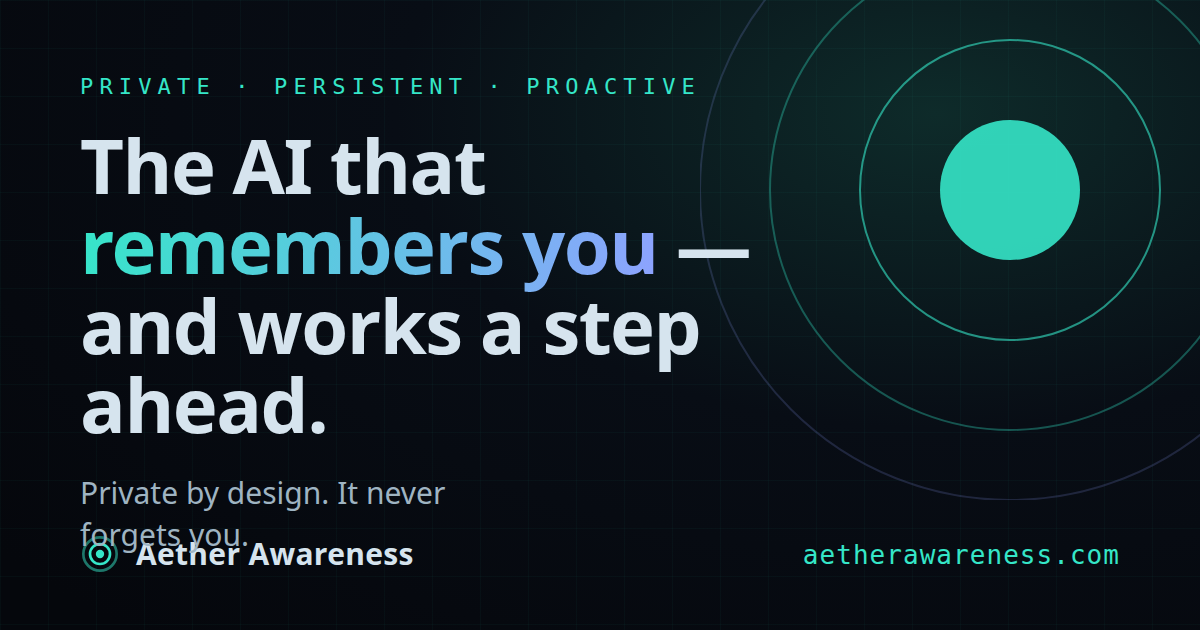
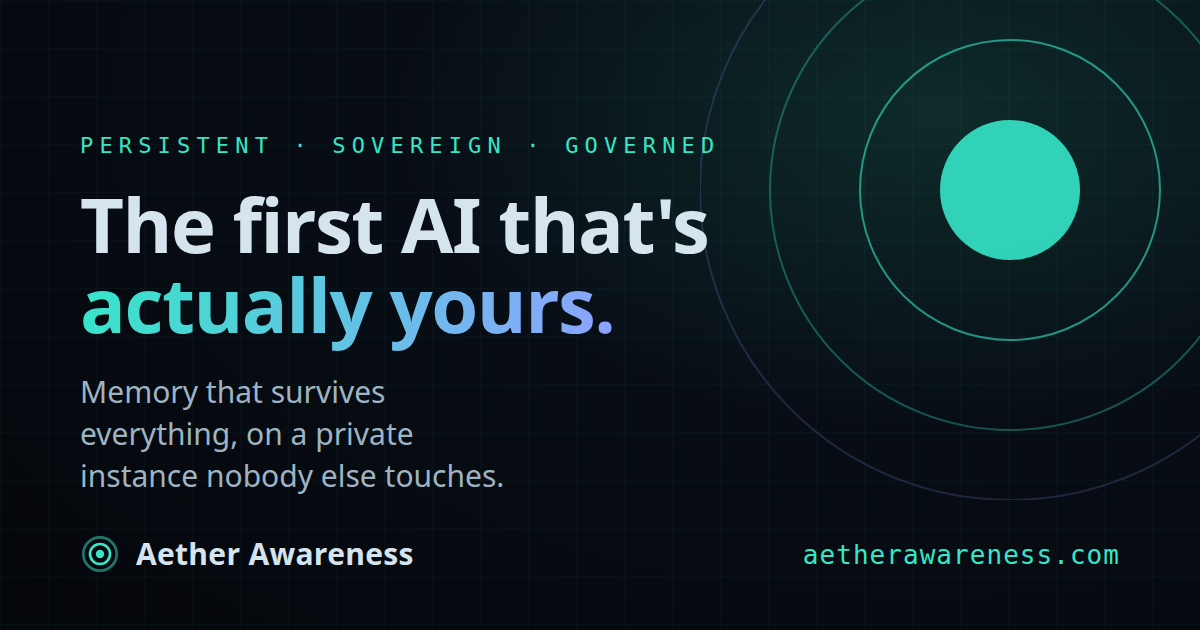
OG card + README refresh to sovereign-instance positioning

diff --git a/assets/og-card.html b/assets/og-card.html
@@ -25,9 +25,9 @@
     <circle cx="310" cy="310" r="310" stroke="#8ea2ff" stroke-width="2" opacity=".18"/>
   </svg>
   <div class="wrap">
-    <div class="eyebrow">Private · Persistent · Proactive</div>
-    <h1>The AI that <span class="grad">remembers you</span> — and works a step ahead.</h1>
-    <p>Private by design. It never forgets you.</p>
+    <div class="eyebrow">Persistent · Sovereign · Governed</div>
+    <h1>The first AI that's <span class="grad">actually yours.</span></h1>
+    <p>Memory that survives everything, on a private instance nobody else touches.</p>
   </div>
   <div class="brand">
     <svg width="40" height="40" viewBox="0 0 24 24" fill="none" stroke="#35e6c8" stroke-width="1.6"><circle cx="12" cy="12" r="2.5" fill="#35e6c8" stroke="none"/><circle cx="12" cy="12" r="6"/><circle cx="12" cy="12" r="10" opacity=".5"/></svg>

diff --git a/README.md b/README.md
@@ -1,59 +1,61 @@
 # Aether Awareness — launch site
 
-Marketing + signup site for **Aether Awareness**: a private, persistent, proactive AI
-with three tiers (Free / Standard / Premium). Static, zero-build, deploys anywhere.
+Marketing + signup site for **[Aether Awareness](https://aetherawareness.com)**: private,
+single-tenant AI instances — three companions with persistent memory, owned identity, and
+governed autonomy, in three editions (Companion / Team / Governance). Static, zero-build,
+self-contained (no external requests, no trackers), served by GitHub Pages.
 
 ```
 aetherawareness-com/
-├── index.html          # the page (SEO + Open Graph for the X launch card)
-├── site.config.js      # ← EDIT THIS: prices, Stripe links, signup endpoint
-├── css/style.css       # committed dark "signal intelligence" theme
+├── index.html          # the page: manifesto, capabilities, editions, FAQ
+├── terms.html          # Terms of Service
+├── privacy.html        # Privacy Policy
+├── site.config.js      # ← EDIT THIS: prices, checkout links, signup endpoint
+├── css/style.css       # dark "signal intelligence" theme
 ├── js/main.js          # hero field, pricing render, signup handling
 ├── assets/             # favicon.svg, og-card (social preview)
+├── CNAME               # custom domain for GitHub Pages
 └── marketing/
     └── video-scripts.md  # 3 launch video scripts (90–120s)
 ```
 
-## Before launch — the two things to set
+## Editing
 
-Everything you'd change lives in **`site.config.js`**:
+Everything you'd routinely change lives in **`site.config.js`**:
 
-1. **Prices** — `tiers[].price` are placeholders (`$19`, `$49`). Set your real numbers.
-2. **Checkout links** — `tiers[].checkout` currently point at the existing Stripe
-   pay-what-you-want link. Swap for your fixed recurring Stripe Checkout / Payment Link
-   per tier. (These map to the subscriber gateway tiers `free` / `standard` / `premium`.)
-3. **Signup destination** — `signupEndpoint`:
-   - Leave `""` for **launch-capture mode**: emails are stored in `localStorage` and a
-     prefilled mail to `contactEmail` opens, so no signup is ever lost pre-backend.
-   - Or set it to a POST endpoint (Formspree, a Supabase Edge Function, or the subscriber
-     gateway's provisioning webhook) that accepts `{ "email": "..." }`.
+1. **Prices** — mirror the product catalog: Companion **$39.95/mo · $399/yr**, Team
+   **$59.95/mo · $599/yr**, Governance **$499.95/mo · $4,999/yr**.
+2. **Checkout** — while the billing host is pre-launch every tier uses `action:"signup"`
+   (email capture; no lead is lost). When checkout goes live, set `action:"checkout"` and
+   `checkout:"https://subscribe.aetherawareness.com/subscribe"` per tier.
+3. **Signup destination** — `signupEndpoint`: leave `""` for launch-capture mode
+   (localStorage + prefilled mail to `contactEmail`), or point it at any POST endpoint
+   that accepts `{ "email": "..." }`.
 
 ## Run locally
 
 ```bash
-cd aetherawareness-com
-python3 -m http.server 4310
-# open http://localhost:4310
+python3 -m http.server 4310   # open http://localhost:4310
 ```
 
 ## Deploy
 
-It's pure static files — host on any of:
-- **Cloudflare Pages / GitHub Pages / Netlify** — point at this repo, build command: none,
-  output dir: `/` (root).
-- Drop behind the same Cloudflare tunnel you use for the app.
-
-Add the custom domain (`aetherawareness.com`) in your host's dashboard, or commit a
-`CNAME` file with `aetherawareness.com` for GitHub Pages.
+Pushed `main` deploys automatically via GitHub Pages (custom domain in `CNAME`,
+DNS A/AAAA records at the registrar point to GitHub Pages).
 
 ## Social card
 
-`index.html` references `assets/og-card.png` (1200×630) for the X/Twitter/Open Graph
-preview. Regenerate it from `assets/og-card.html` if you tweak branding
-(open it and screenshot at 1200×630, or use any HTML-to-image tool).
+`assets/og-card.png` (1200×630) is rendered from `assets/og-card.html`:
+
+```bash
+google-chrome --headless --disable-gpu --window-size=1200,630 \
+  --screenshot=assets/og-card.png "file://$PWD/assets/og-card.html"
+```
 
 ## Honesty guardrails (keep these true in all copy)
 
-The product is a **private, remembering, proactive assistant**. Claims stay to: persistent
-memory (Continuum), privacy/isolation (never sold, never trains other models), proactivity,
-personas, and real frontier models. Do **not** claim it monitors devices or reads accounts.
+Claims stay to what the product does: persistent memory that survives sessions and model
+swaps, single-tenant isolation (never pooled, never trained on), personalized agent trios
+("souls"), per-edition capability molds (Companion: no file/shell access; Team: reversible
+workspace jail; Governance: audit + SSO-ready), bring-your-own-model, cancel-preserves-data.
+Do **not** claim device monitoring, account reading, uptime guarantees, or romance.